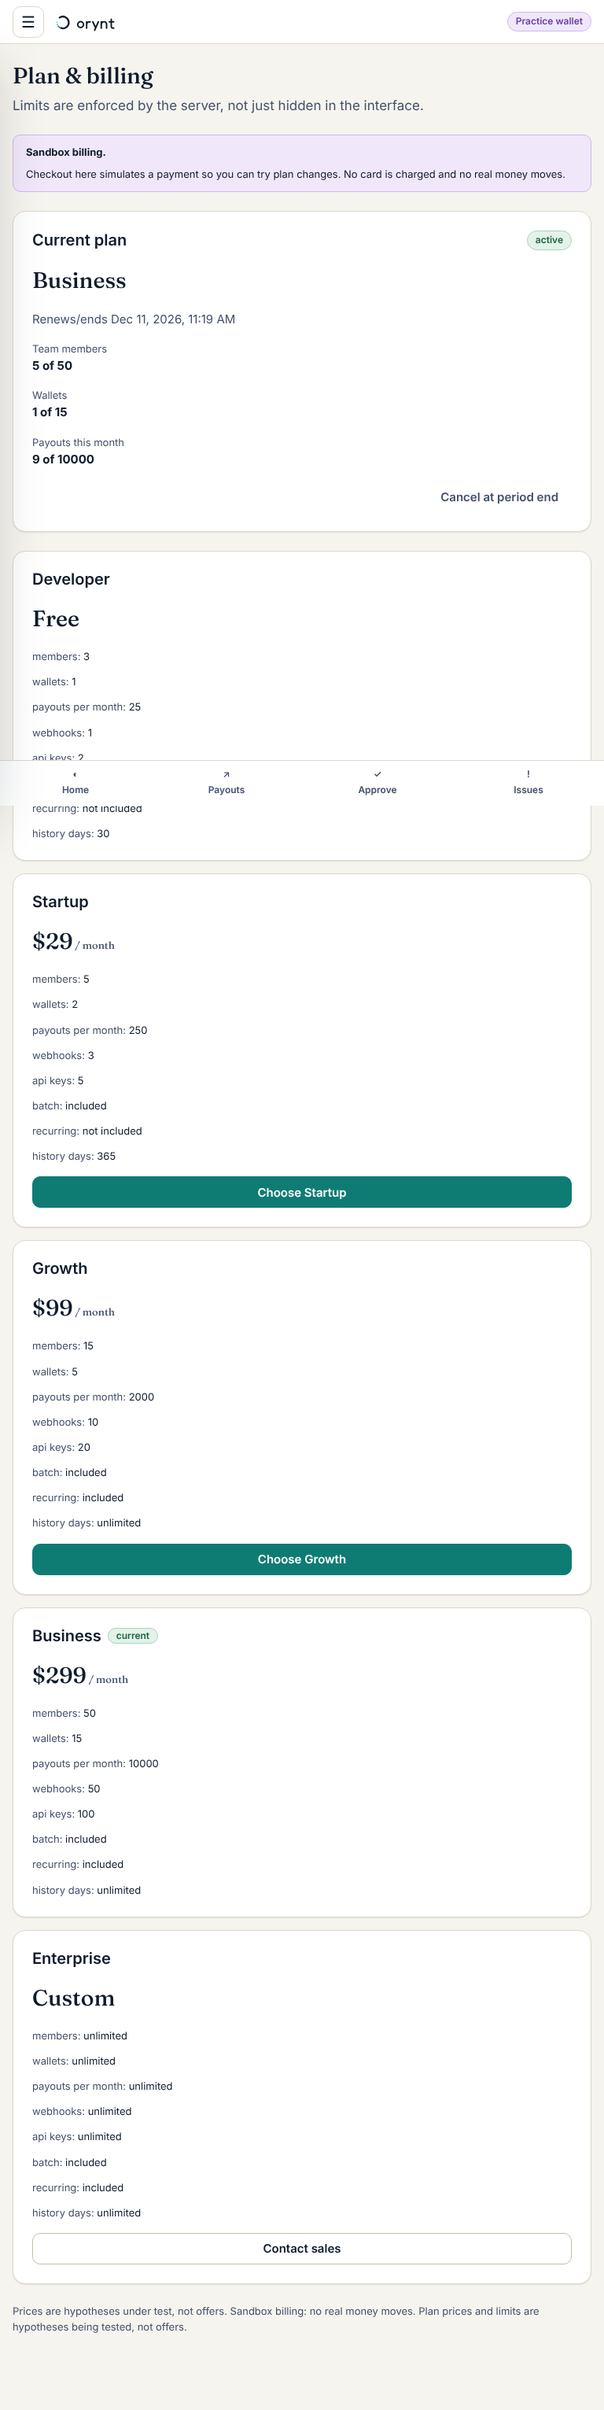
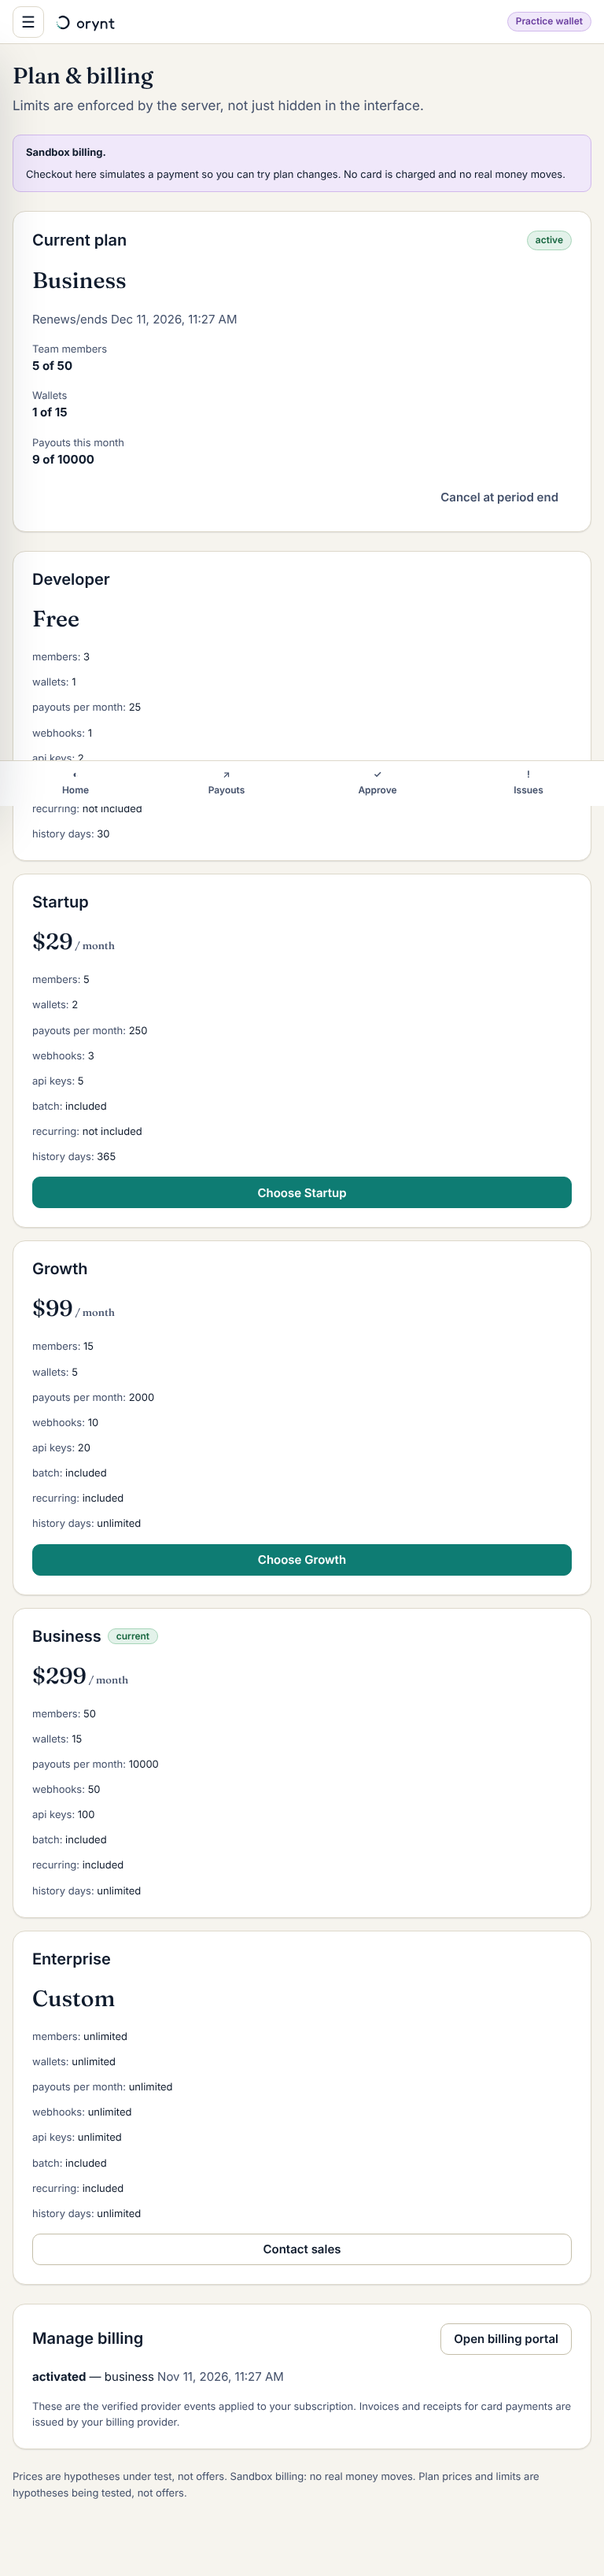
feat(billing): plan-change journeys — upgrade/downgrade with a downgrade guard (refused while usage exceeds the target plan; by-arrangement plans handled), provider-hosted portal entry (Stripe; honest refusals elsewhere), billing history from the audit log; Billing screen wired; sandbox-verified onl
Claude-Session: https://claude.ai/code/session_01CHDFhK4Pv8MKV9HYoeTVbm

diff --git a/apps/api/src/services/billing.ts b/apps/api/src/services/billing.ts
@@ -483,3 +483,122 @@ export async function cancelSubscription(d: Deps, orgId: string, actorId: string
     );
   });
 }
+
+const CAPACITY: Array<[keyof Awaited<ReturnType<typeof usage>>, string, string]> = [
+  ["members", "members", "members"],
+  ["wallets", "wallets", "wallet connections"],
+  ["webhooks", "webhooks", "webhook endpoints"],
+  ["api_keys", "api_keys", "API keys"],
+];
+/**
+ * Upgrade or downgrade between PAID plans (free → paid goes through checkout; paid → free is cancellation).
+ * A downgrade is refused while current usage exceeds the target plan, so a customer never ends up silently over-limit or locked out of existing resources.
+ * Sandbox: applied through the same signed-event pipeline as a real webhook. Real providers: the plan change itself happens in the provider's hosted portal
+ * (we do not guess provider price-swap APIs); our entitlements change only when the provider's verified event arrives.
+ */
+export async function changePlan(d: Deps, orgId: string, planId: string, email: string) {
+  const target = (await d.pool.query("SELECT * FROM plan_definitions WHERE id=$1 AND public", [planId]))
+    .rows[0];
+  if (!target) throw new OryntError("not_found", 404, "Unknown plan.");
+  if (target.price_usd_cents === null)
+    throw new OryntError("invalid_state", 409, "This plan is by arrangement — contact sales.");
+  const eff = await effectivePlan(d, orgId);
+  if (eff.plan_id === planId) throw new OryntError("conflict", 409, "You are already on this plan.");
+  if (target.price_usd_cents === 0)
+    throw new OryntError(
+      "invalid_state",
+      409,
+      "To return to the free Developer plan, cancel your subscription instead.",
+    );
+  const current = (
+    await d.pool.query("SELECT price_usd_cents FROM plan_definitions WHERE id=$1", [eff.plan_id])
+  ).rows[0];
+  // a "by arrangement" plan has no list price: moving off it to a priced plan is a downgrade
+  const currentPrice = current ? (current.price_usd_cents === null ? Infinity : current.price_usd_cents) : 0;
+  const downgrade = target.price_usd_cents < currentPrice;
+  if (downgrade) {
+    const u = await usage(d, orgId);
+    const over = CAPACITY.filter(([k, ek]) => {
+      const lim = Number(target.entitlements[ek]);
+      return lim !== -1 && u[k] > lim;
+    }).map(([k, ek, label]) => ({ dimension: label, used: u[k], allowed: Number(target.entitlements[ek]) }));
+    if (over.length)
+      throw new OryntError(
+        "entitlement_exceeded",
+        409,
+        `You use more than the ${target.name} plan allows (${over.map((o) => `${o.used} ${o.dimension}, limit ${o.allowed}`).join("; ")}). Remove the excess first, then downgrade.`,
+        { over_limit: over, plan: planId },
+      );
+  }
+  const sub = (await d.pool.query("SELECT provider, status FROM subscriptions WHERE org_id=$1", [orgId]))
+    .rows[0];
+  if (d.config.billingProvider === "sandbox") {
+    const r = await sandboxComplete(d, orgId, planId);
+    return { mode: "applied", direction: downgrade ? "downgrade" : "upgrade", result: r };
+  }
+  if (!sub || sub.provider === "none" || sub.status === "canceled")
+    return { direction: "upgrade", ...(await startCheckout(d, orgId, planId, email)) };
+  return { direction: downgrade ? "downgrade" : "upgrade", ...(await startPortal(d, orgId)) };
+}
+
+/** Provider-hosted customer portal (payment method, invoices, plan changes). Stripe only — the request shape is from Stripe's documentation and is UNVERIFIED against the live API. */
+export async function startPortal(d: Deps, orgId: string) {
+  const s = (
+    await d.pool.query("SELECT provider, provider_customer_id FROM subscriptions WHERE org_id=$1", [orgId])
+  ).rows[0];
+  if (d.config.billingProvider === "sandbox")
+    return {
+      mode: "sandbox",
+      url: null,
+      note: "The sandbox provider has no hosted portal: use the plan buttons. Nothing is charged.",
+    };
+  if (!s?.provider_customer_id || s.provider !== d.config.billingProvider)
+    throw new OryntError(
+      "invalid_state",
+      409,
+      "There is no billing customer to open a portal for yet. Choose a plan first.",
+    );
+  if (s.provider !== "stripe")
+    throw new OryntError(
+      "invalid_state",
+      501,
+      `${s.provider} has no hosted customer portal that Orynt can open.`,
+    );
+  if (!d.config.billingApiKey)
+    throw new OryntError("wallet_unavailable", 503, "Billing is not configured on this server.");
+  const r = await fetch("https://api.stripe.com/v1/billing_portal/sessions", {
+    method: "POST",
+    headers: {
+      authorization: `Bearer ${d.config.billingApiKey}`,
+      "content-type": "application/x-www-form-urlencoded",
+    },
+    body: new URLSearchParams({
+      customer: s.provider_customer_id,
+      return_url: `${d.config.appBaseUrl}/app/billing`,
+    }),
+    signal: AbortSignal.timeout(15000),
+  });
+  const j = (await r.json().catch(() => ({}))) as { url?: string };
+  if (!r.ok || !j.url)
+    throw new OryntError("internal", 502, "The billing provider could not open the portal.");
+  return { mode: "redirect", url: j.url };
+}
+
+/** What billing events were applied to this organisation (from the tamper-evident audit log). Provider invoice documents live at the provider; Orynt does not issue invoices. */
+export async function billingHistory(d: Deps, orgId: string) {
+  const rows = (
+    await d.pool.query(
+      "SELECT at, type, data FROM audit_events WHERE org_id=$1 AND stream='org' AND type LIKE 'billing.%' ORDER BY seq DESC LIMIT 100",
+      [orgId],
+    )
+  ).rows;
+  return {
+    data: rows.map((r) => ({
+      at: new Date(r.at).toISOString(),
+      event: String(r.type).replace("billing.", ""),
+      plan: r.data?.plan ?? null,
+      provider_event_id: r.data?.event_id ?? null,
+    })),
+    note: "These are the verified provider events applied to your subscription. Invoices and receipts for card payments are issued by your billing provider.",
+  };
+}

diff --git a/apps/api/test/billing-journeys.itest.ts b/apps/api/test/billing-journeys.itest.ts
@@ -1,0 +1,100 @@
+import { afterAll, beforeAll, describe, expect, it } from "vitest";
+import { Client, createEnv, type TestEnv } from "./helpers";
+
+/** Sandbox provider only: these prove OUR rules (guards, entitlements, history). They say nothing about a real billing provider. */
+describe("plan change journeys (sandbox provider)", () => {
+  let env: TestEnv, c: Client, owner: Awaited<ReturnType<Client["register"]>>;
+  const plan = async () => (await c.call("GET", "/v1/billing", owner)).body.current.plan_id as string;
+  beforeAll(async () => {
+    env = await createEnv({ ORYNT_DEFAULT_PLAN: "developer" });
+    c = new Client(env);
+    owner = await c.register("journeys@pay.test");
+  });
+  afterAll(async () => {
+    await env.teardown();
+  });
+
+  it("upgrade: free → paid through checkout, then paid → higher paid through change-plan; entitlements follow the verified event", async () => {
+    expect(await plan()).toBe("developer");
+    expect((await c.call("POST", "/v1/billing/sandbox/complete", owner, { plan_id: "startup" })).status).toBe(
+      200,
+    );
+    expect(await plan()).toBe("startup");
+    const up = await c.call("POST", "/v1/billing/change-plan", owner, { plan_id: "growth" });
+    expect(up.status, JSON.stringify(up.body)).toBe(200);
+    expect(up.body).toMatchObject({ mode: "applied", direction: "upgrade" });
+    expect(up.body.billing.current.plan_id).toBe("growth");
+    expect(up.body.billing.entitlements.members).toBe(15);
+  });
+
+  it("refusals: same plan, unknown plan, the free plan (that is cancellation), by-arrangement plans, and roles without billing:manage", async () => {
+    expect((await c.call("POST", "/v1/billing/change-plan", owner, { plan_id: "growth" })).status).toBe(409);
+    expect((await c.call("POST", "/v1/billing/change-plan", owner, { plan_id: "nope" })).status).toBe(404);
+    expect((await c.call("POST", "/v1/billing/change-plan", owner, { plan_id: "developer" })).status).toBe(
+      409,
+    );
+    expect((await c.call("POST", "/v1/billing/change-plan", owner, { plan_id: "enterprise" })).status).toBe(
+      409,
+    );
+    const viewer = await c.addMember(owner, "viewer@pay.test", "viewer");
+    expect((await c.call("POST", "/v1/billing/change-plan", viewer, { plan_id: "startup" })).status).toBe(
+      403,
+    );
+    expect(await plan()).toBe("growth");
+  });
+
+  it("downgrade is refused while usage exceeds the target plan (nothing is silently over-limit), and allowed once the excess is removed", async () => {
+    for (let i = 0; i < 5; i++) await c.addMember(owner, `m${i}@pay.test`, "viewer"); // owner + viewer + 5 = 7 members; Startup allows 5
+    const refused = await c.call("POST", "/v1/billing/change-plan", owner, { plan_id: "startup" });
+    expect(refused.status).toBe(409);
+    expect(refused.body.code).toBe("entitlement_exceeded");
+    expect(refused.body.over_limit[0]).toMatchObject({ dimension: "members", used: 7, allowed: 5 });
+    expect(await plan()).toBe("growth"); // unchanged
+    const members = (await c.call("GET", "/v1/members", owner)).body.data as Array<{
+      id: string;
+      user: { email: string };
+    }>;
+    for (const m of members.filter((x) => /^m[01]@/.test(x.user.email)))
+      expect((await c.call("PATCH", `/v1/members/${m.id}`, owner, { status: "revoked" })).status).toBe(200);
+    const down = await c.call("POST", "/v1/billing/change-plan", owner, { plan_id: "startup" });
+    expect(down.status, JSON.stringify(down.body)).toBe(200);
+    expect(down.body).toMatchObject({ mode: "applied", direction: "downgrade" });
+    expect(await plan()).toBe("startup");
+  });
+
+  it("history lists the verified events applied to this organisation only; the portal is honest about the sandbox", async () => {
+    const h = await c.call("GET", "/v1/billing/history", owner);
+    expect(h.status).toBe(200);
+    expect(
+      h.body.data.filter((e: { event: string }) => e.event === "activated").length,
+    ).toBeGreaterThanOrEqual(3);
+    expect(h.body.data[0].provider_event_id).toMatch(/^evt_sbx_/);
+    const other = await c.register("someone@else.test", "S", "Else Org");
+    expect((await c.call("GET", "/v1/billing/history", other)).body.data.length).toBe(0);
+    const portal = await c.call("POST", "/v1/billing/portal", owner);
+    expect(portal.status).toBe(200);
+    expect(portal.body).toMatchObject({ mode: "sandbox", url: null });
+  });
+
+  it("a paid plan never enables mainnet or wallet commissioning: those are server settings, not entitlements", async () => {
+    expect(env.config.allowMainnet).toBe(false);
+    const e = (await c.call("GET", "/v1/billing", owner)).body.entitlements as Record<string, unknown>;
+    expect(Object.keys(e)).not.toEqual(expect.arrayContaining(["mainnet", "allow_mainnet", "real_funds"]));
+  });
+});
+
+describe("moving off a by-arrangement plan", () => {
+  it("enterprise → priced plan counts as a downgrade and is checked against current usage", async () => {
+    const env = await createEnv({ ORYNT_DEFAULT_PLAN: "enterprise" });
+    const c = new Client(env);
+    const owner = await c.register("ent@pay.test");
+    for (let i = 0; i < 6; i++) await c.addMember(owner, `e${i}@pay.test`, "viewer"); // 7 members > Startup's 5
+    const refused = await c.call("POST", "/v1/billing/change-plan", owner, { plan_id: "startup" });
+    expect(refused.status).toBe(409);
+    expect(refused.body.code).toBe("entitlement_exceeded");
+    const ok = await c.call("POST", "/v1/billing/change-plan", owner, { plan_id: "growth" });
+    expect(ok.status, JSON.stringify(ok.body)).toBe(200);
+    expect(ok.body.direction).toBe("downgrade");
+    await env.teardown();
+  });
+});

diff --git a/apps/web/src/pages/Billing.tsx b/apps/web/src/pages/Billing.tsx
@@ -31,10 +31,29 @@ export function Billing() {
   const [busy, setBusy] = useState<string | null>(null);
   const [err, setErr] = useState<string | null>(null);
   const d = b.data;
+  const paid = !!d && d.current.plan_id !== "developer" && d.current.status !== "canceled";
   const pick = async (plan: Plan) => {
     setBusy(plan.id);
     setErr(null);
     try {
+      if (paid) {
+        // paid → another paid plan: the server refuses a downgrade that would leave the organisation over the new limits and says exactly what to remove
+        const r = await api.request<{ mode: string; url?: string | null; direction?: string }>(
+          "POST",
+          "/v1/billing/change-plan",
+          { body: { plan_id: plan.id } },
+        );
+        if (r.data.mode === "redirect" && r.data.url) {
+          window.location.href = r.data.url;
+          return;
+        }
+        toast(
+          "ok",
+          `${plan.name} is now your plan (${r.data.direction ?? "changed"}).${d?.billing_provider === "sandbox" ? " Sandbox: no real money moved." : ""}`,
+        );
+        b.reload();
+        return;
+      }
       const r = await api.request<{ mode: string; url: string | null }>("POST", "/v1/billing/checkout", {
         body: { plan_id: plan.id },
       });
@@ -45,6 +64,22 @@ export function Billing() {
       await api.request("POST", "/v1/billing/sandbox/complete", { body: { plan_id: plan.id } });
       toast("ok", `Sandbox checkout complete — ${plan.name} is active. No real money moved.`);
       b.reload();
+    } catch (e) {
+      setErr(errorText(e));
+    } finally {
+      setBusy(null);
+    }
+  };
+  const portal = async () => {
+    setBusy("portal");
+    setErr(null);
+    try {
+      const r = await api.request<{ mode: string; url: string | null; note?: string }>(
+        "POST",
+        "/v1/billing/portal",
+      );
+      if (r.data.url) window.location.href = r.data.url;
+      else toast("info", r.data.note ?? "No hosted portal is available for this provider.");
     } catch (e) {
       setErr(errorText(e));
     } finally {
@@ -184,11 +219,55 @@ export function Billing() {
               </Card>
             ))}
           </div>
+          {paid ? (
+            <Card
+              title="Manage billing"
+              aside={
+                <Button busy={busy === "portal"} onClick={portal}>
+                  Open billing portal
+                </Button>
+              }
+            >
+              <BillingHistory />
+            </Card>
+          ) : null}
           <p className="muted small">
             {d.notes.join(" ")} Plan prices and limits are hypotheses being tested, not offers.
           </p>
         </>
       ) : null}
     </div>
+  );
+}
+
+function BillingHistory() {
+  const h = useAsync(
+    () =>
+      api
+        .request<{ data: Array<{ at: string; event: string; plan: string | null }>; note: string }>(
+          "GET",
+          "/v1/billing/history",
+        )
+        .then((r) => r.data),
+    [],
+  );
+  if (h.loading) return <Skeleton rows={2} />;
+  if (h.error) return <ErrorNote>{h.error}</ErrorNote>;
+  return (
+    <>
+      {h.data?.data.length ? (
+        <ul className="plain" aria-label="Billing history">
+          {h.data.data.slice(0, 10).map((e, i) => (
+            <li key={i}>
+              <strong>{e.event.replace(/_/g, " ")}</strong>
+              {e.plan ? ` — ${e.plan}` : ""} <span className="muted">{when(e.at)}</span>
+            </li>
+          ))}
+        </ul>
+      ) : (
+        <p className="muted">No billing events yet.</p>
+      )}
+      <p className="muted small">{h.data?.note}</p>
+    </>
   );
 }

diff --git a/apps/api/src/http/handlers-saas.ts b/apps/api/src/http/handlers-saas.ts
@@ -103,6 +103,17 @@ export const saasHandlers: Record<string, H> = {
     if (r === "applied") await track(a.deps, "subscription_activated", need(a.ctx).orgId);
     return { body: { result: r, billing: await bill.billingOverview(a.deps, need(a.ctx).orgId) } };
   },
+  billingChangePlan: async (a) => {
+    await stepUpFromHeader(a);
+    const email = (
+      await a.deps.pool.query("SELECT email FROM users WHERE id=$1", [need(a.principal).actor.userId])
+    ).rows[0].email;
+    const r = await bill.changePlan(a.deps, need(a.ctx).orgId, a.body.plan_id, email);
+    await track(a.deps, "plan_changed", need(a.ctx).orgId);
+    return { body: { ...r, billing: await bill.billingOverview(a.deps, need(a.ctx).orgId) } };
+  },
+  billingPortal: async (a) => ({ body: await bill.startPortal(a.deps, need(a.ctx).orgId) }),
+  billingHistory: async (a) => ({ body: await bill.billingHistory(a.deps, need(a.ctx).orgId) }),
   billingCancel: async (a) => {
     await bill.cancelSubscription(a.deps, need(a.ctx).orgId, need(a.principal).actor.id);
     return { body: ok };

diff --git a/packages/contract/src/routes.ts b/packages/contract/src/routes.ts
@@ -756,6 +756,35 @@ export const saasRoutes: RouteSpec[] = [
     success: ok(Any),
   },
   {
+    id: "billingChangePlan",
+    method: "POST",
+    path: "/v1/billing/change-plan",
+    summary:
+      "Upgrade or downgrade between paid plans (a downgrade is refused while usage exceeds the target plan)",
+    tags: ["billing"],
+    auth: "billing:manage",
+    body: z.object({ plan_id: z.string().min(1).max(40) }),
+    success: ok(Any),
+  },
+  {
+    id: "billingPortal",
+    method: "POST",
+    path: "/v1/billing/portal",
+    summary: "Open the provider-hosted billing portal (payment method, invoices, plan changes)",
+    tags: ["billing"],
+    auth: "billing:manage",
+    success: ok(Any),
+  },
+  {
+    id: "billingHistory",
+    method: "GET",
+    path: "/v1/billing/history",
+    summary: "Billing events applied to your subscription",
+    tags: ["billing"],
+    auth: "billing:manage",
+    success: ok(Any),
+  },
+  {
     id: "billingCancel",
     method: "POST",
     path: "/v1/billing/cancel",
